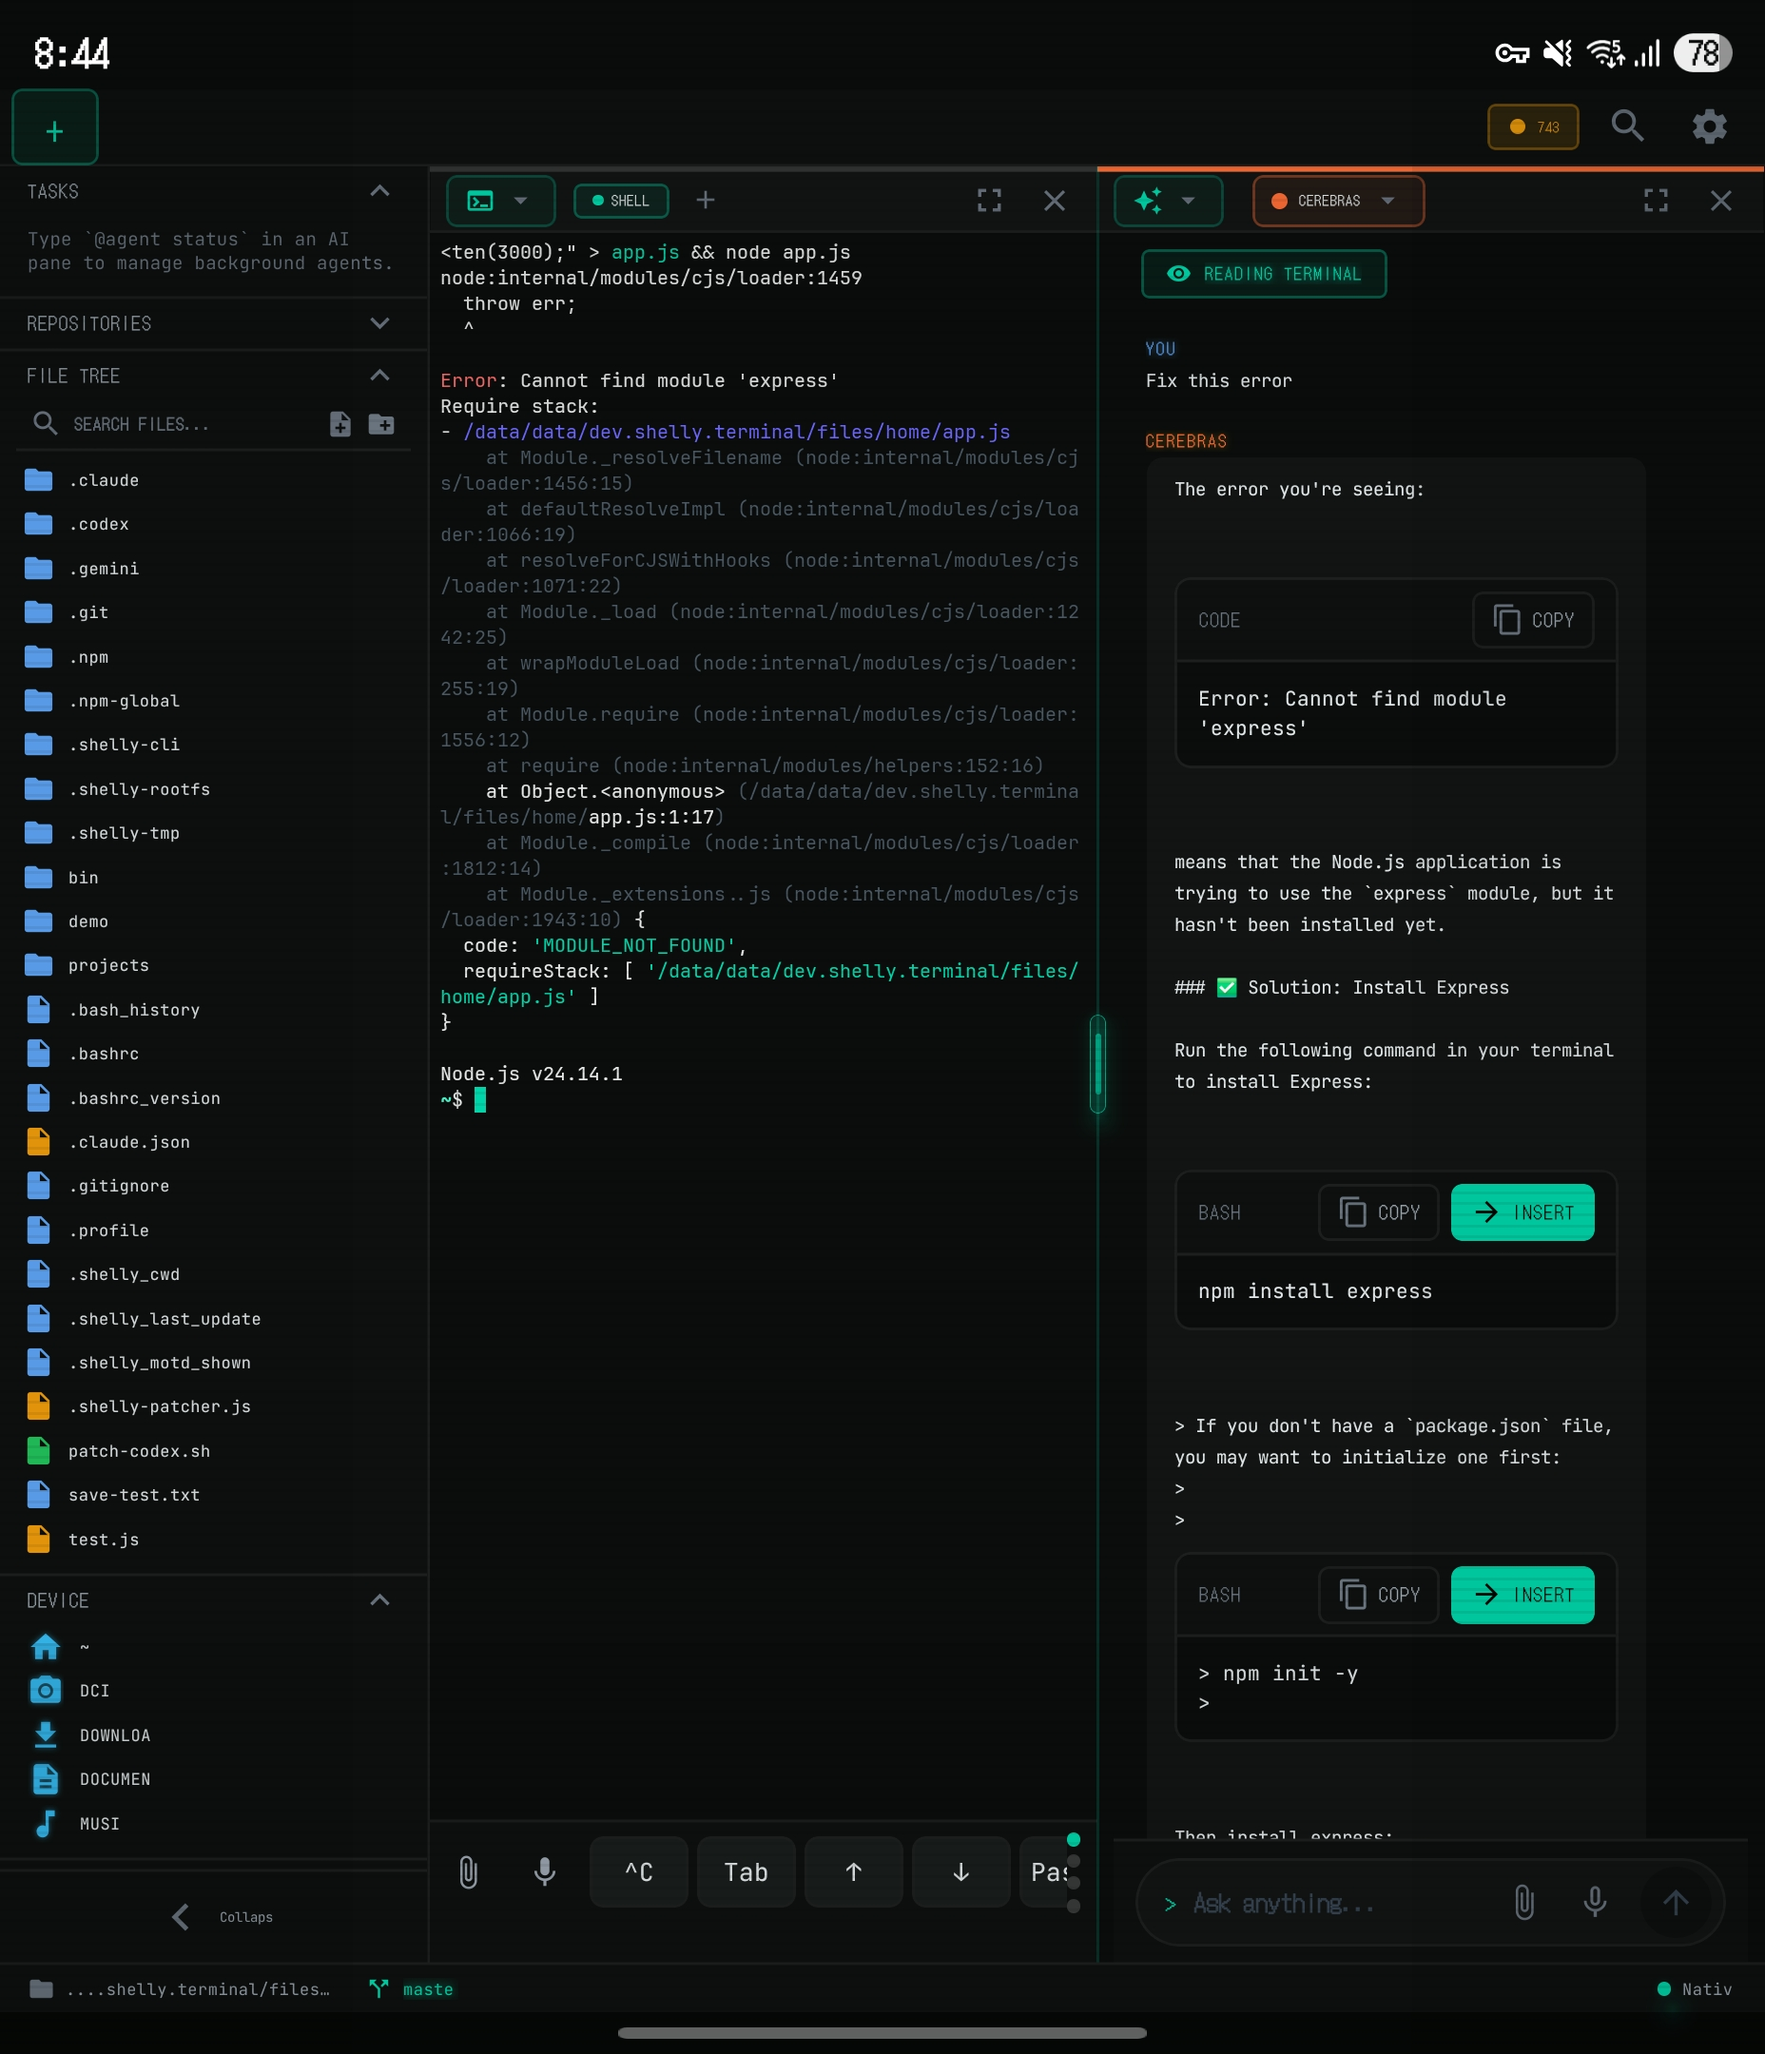
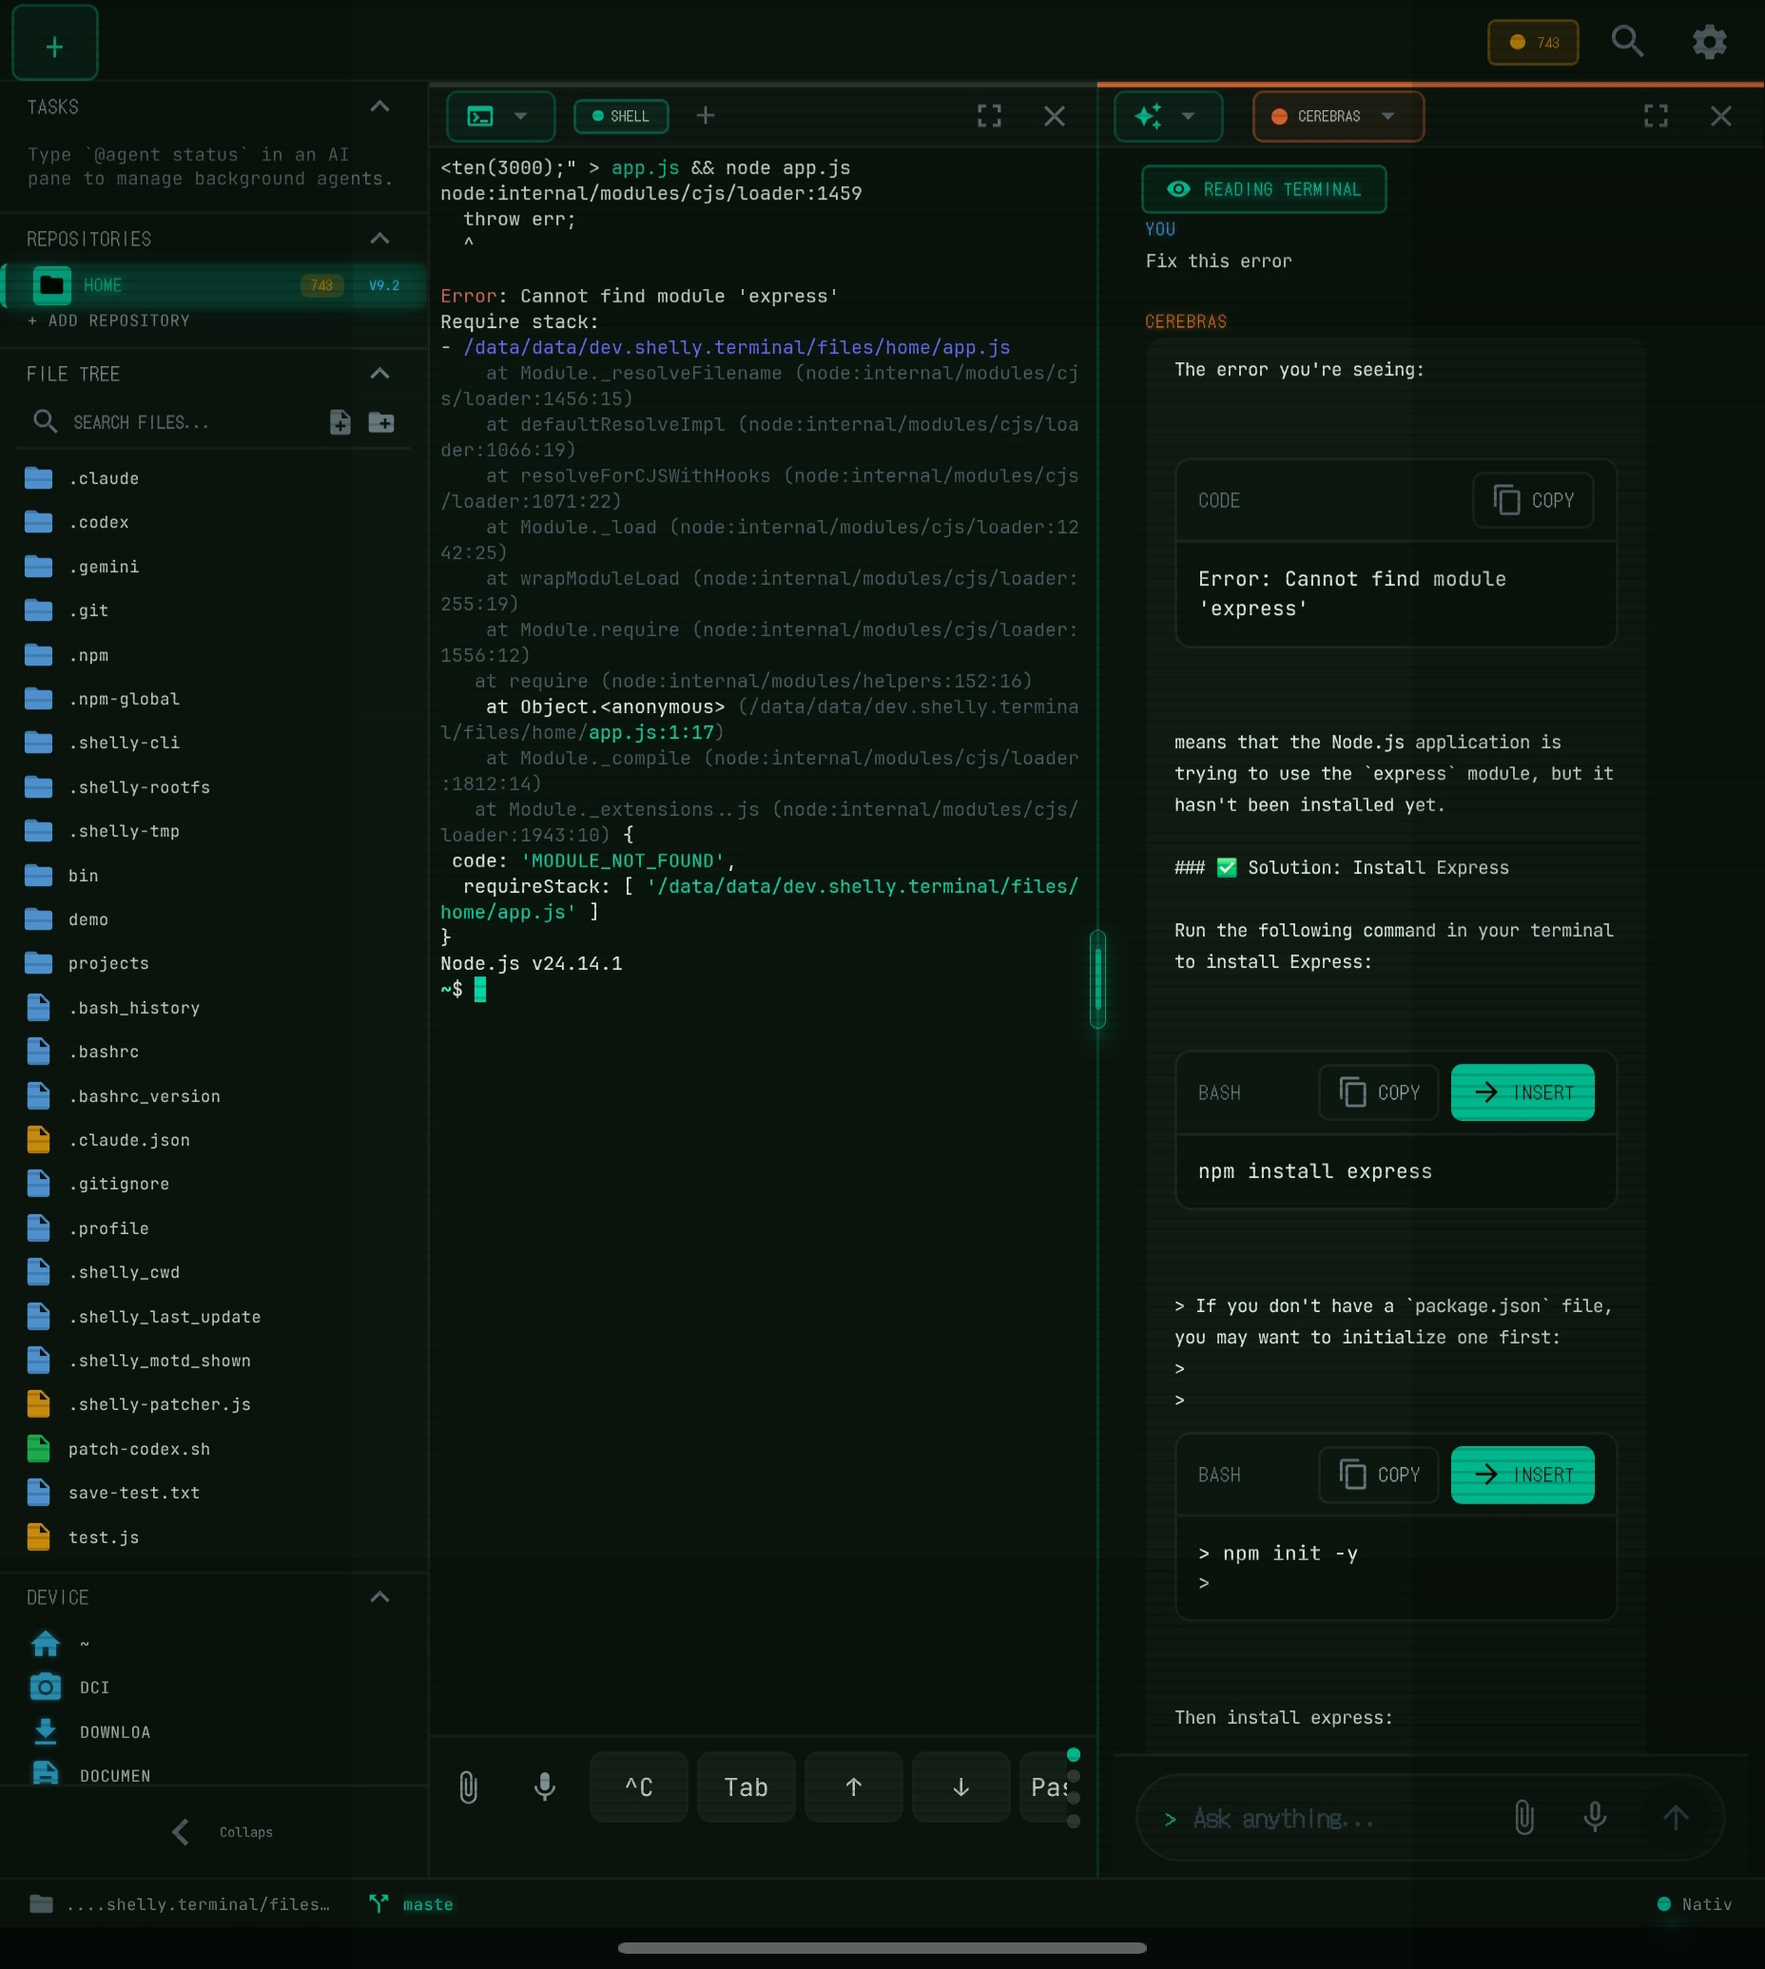
docs: update hero image and remove duplicate
Replace hero screenshot with notification-bar-hidden version.
Remove duplicated hero image below navigation links.

diff --git a/README.md b/README.md
@@ -31,11 +31,6 @@
   <a href="#contributing"><b>Contributing</b></a>
 </p>
 
-<br>
-
-<p align="center">
-  <img src="docs/images/hero.jpg" alt="Shelly — terminal, AI, browser, markdown, and preview in a single screen" width="720">
-</p>
 
 <br>
 
